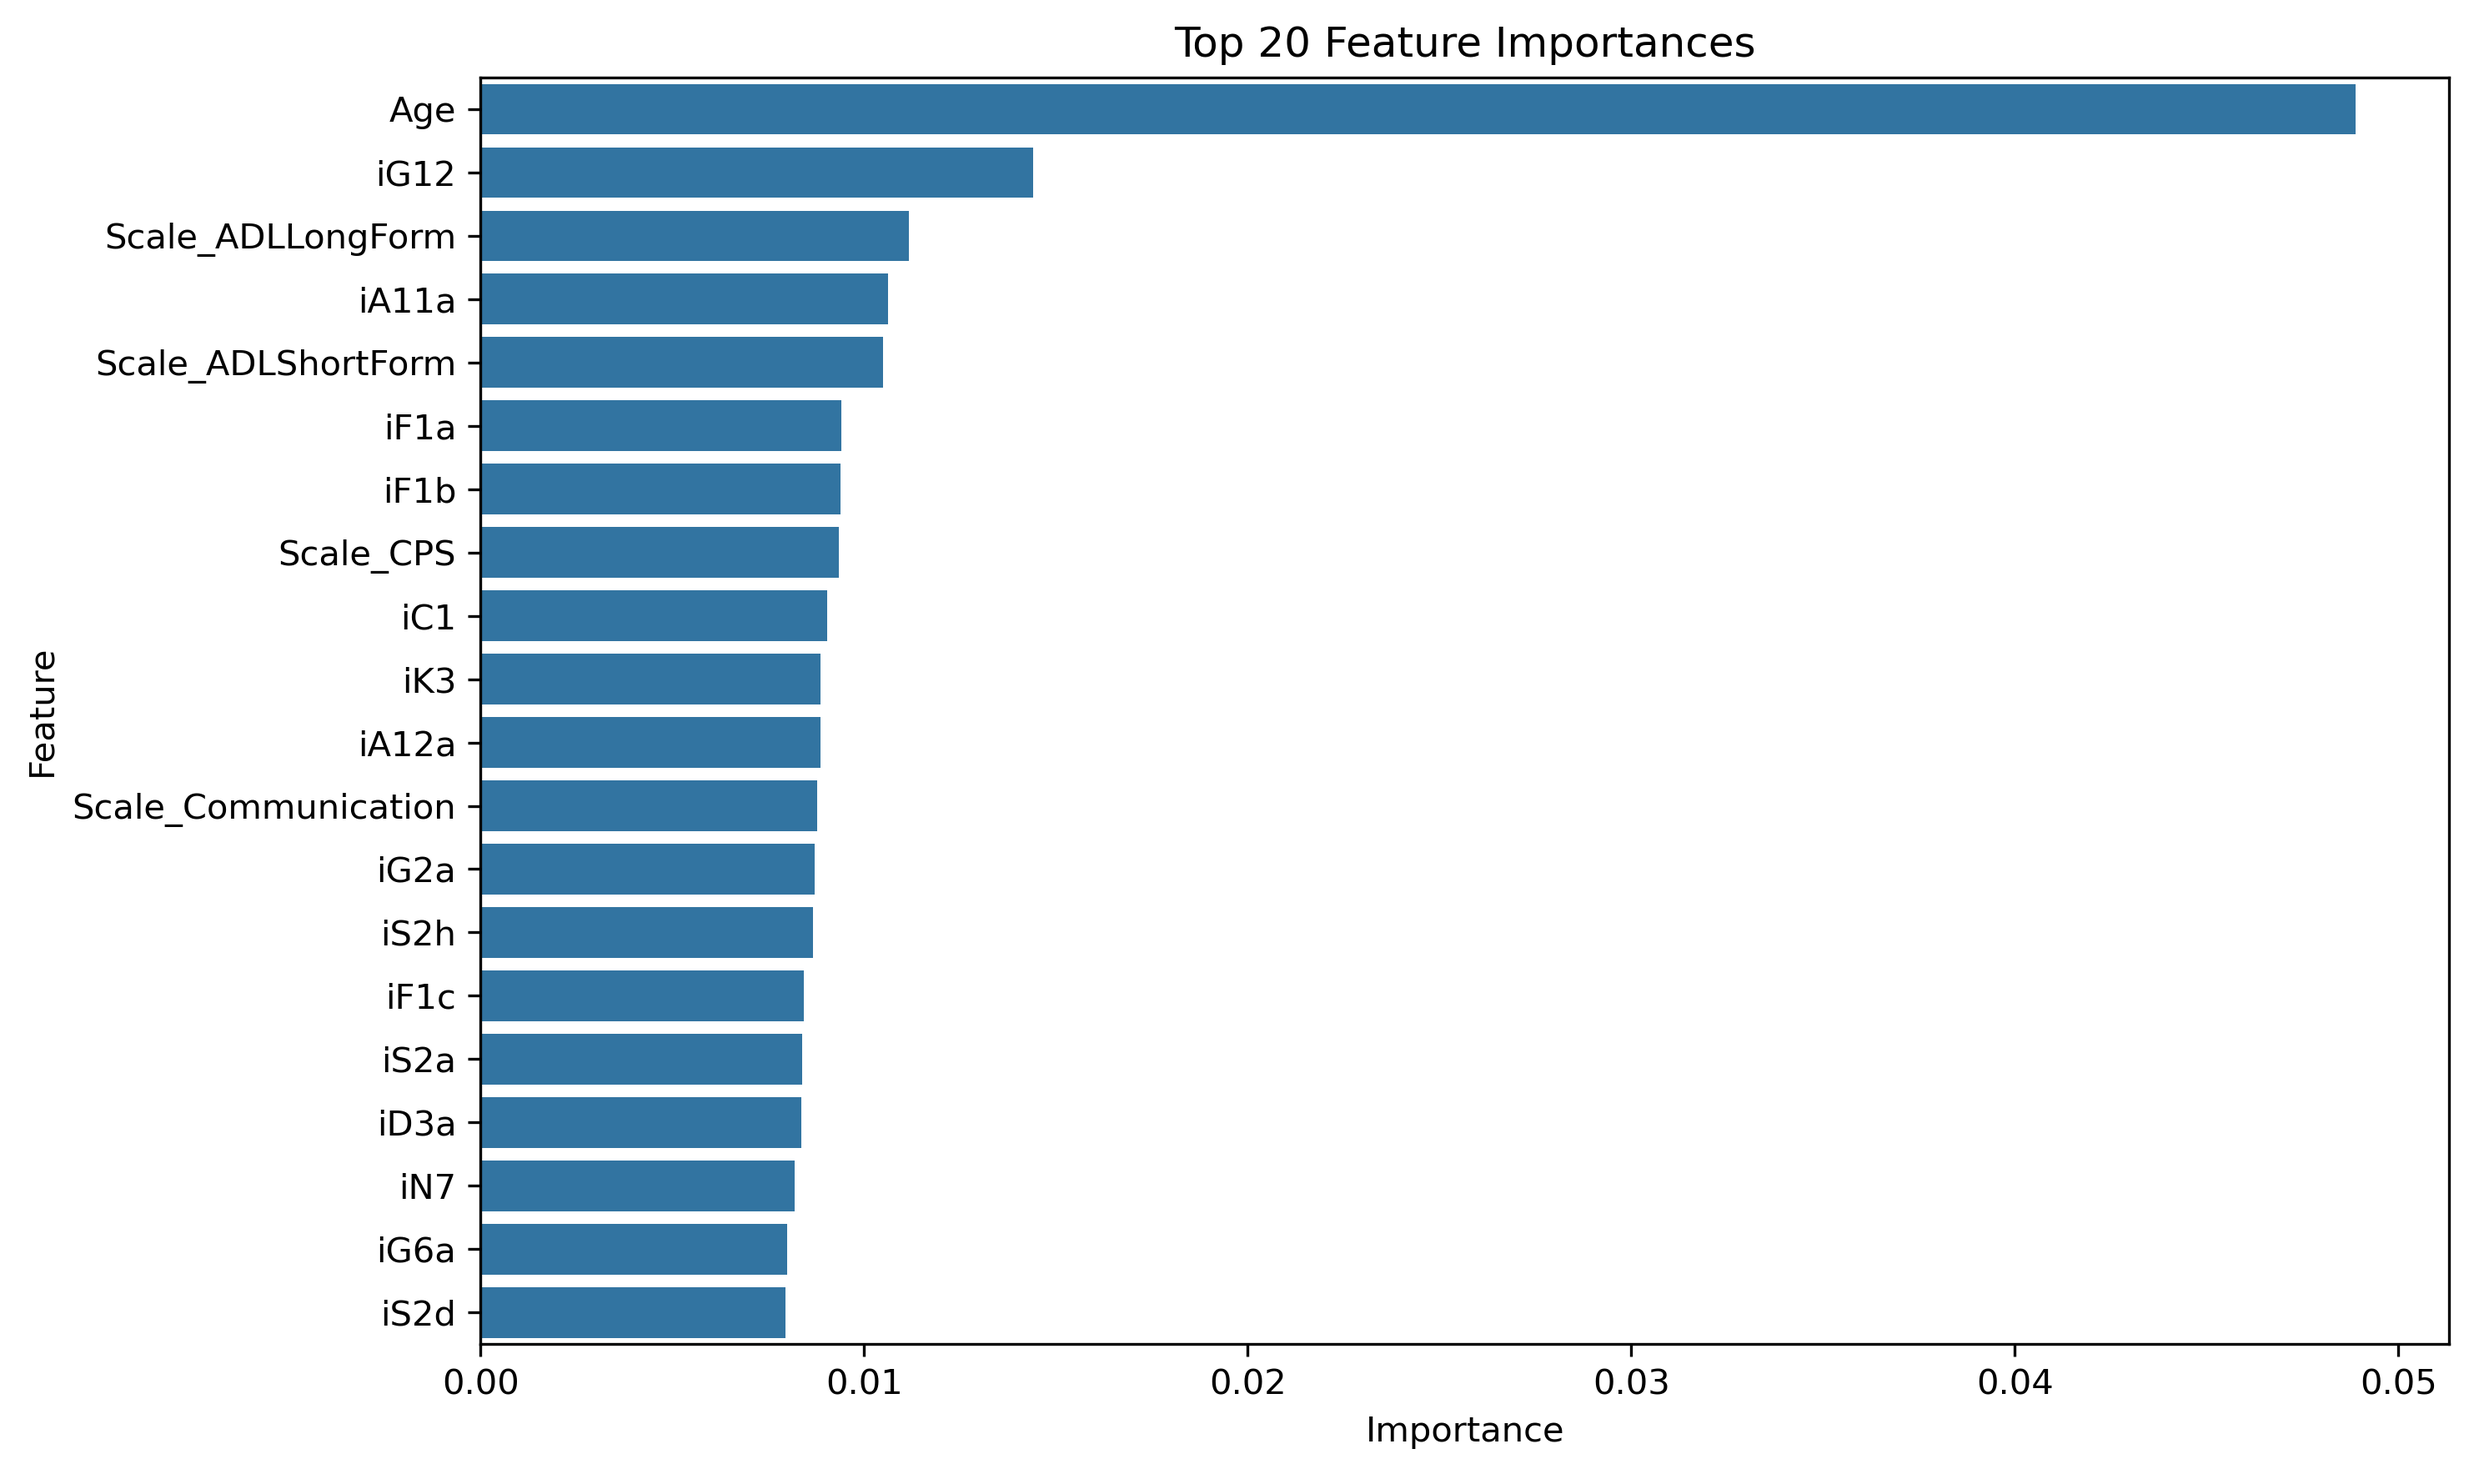
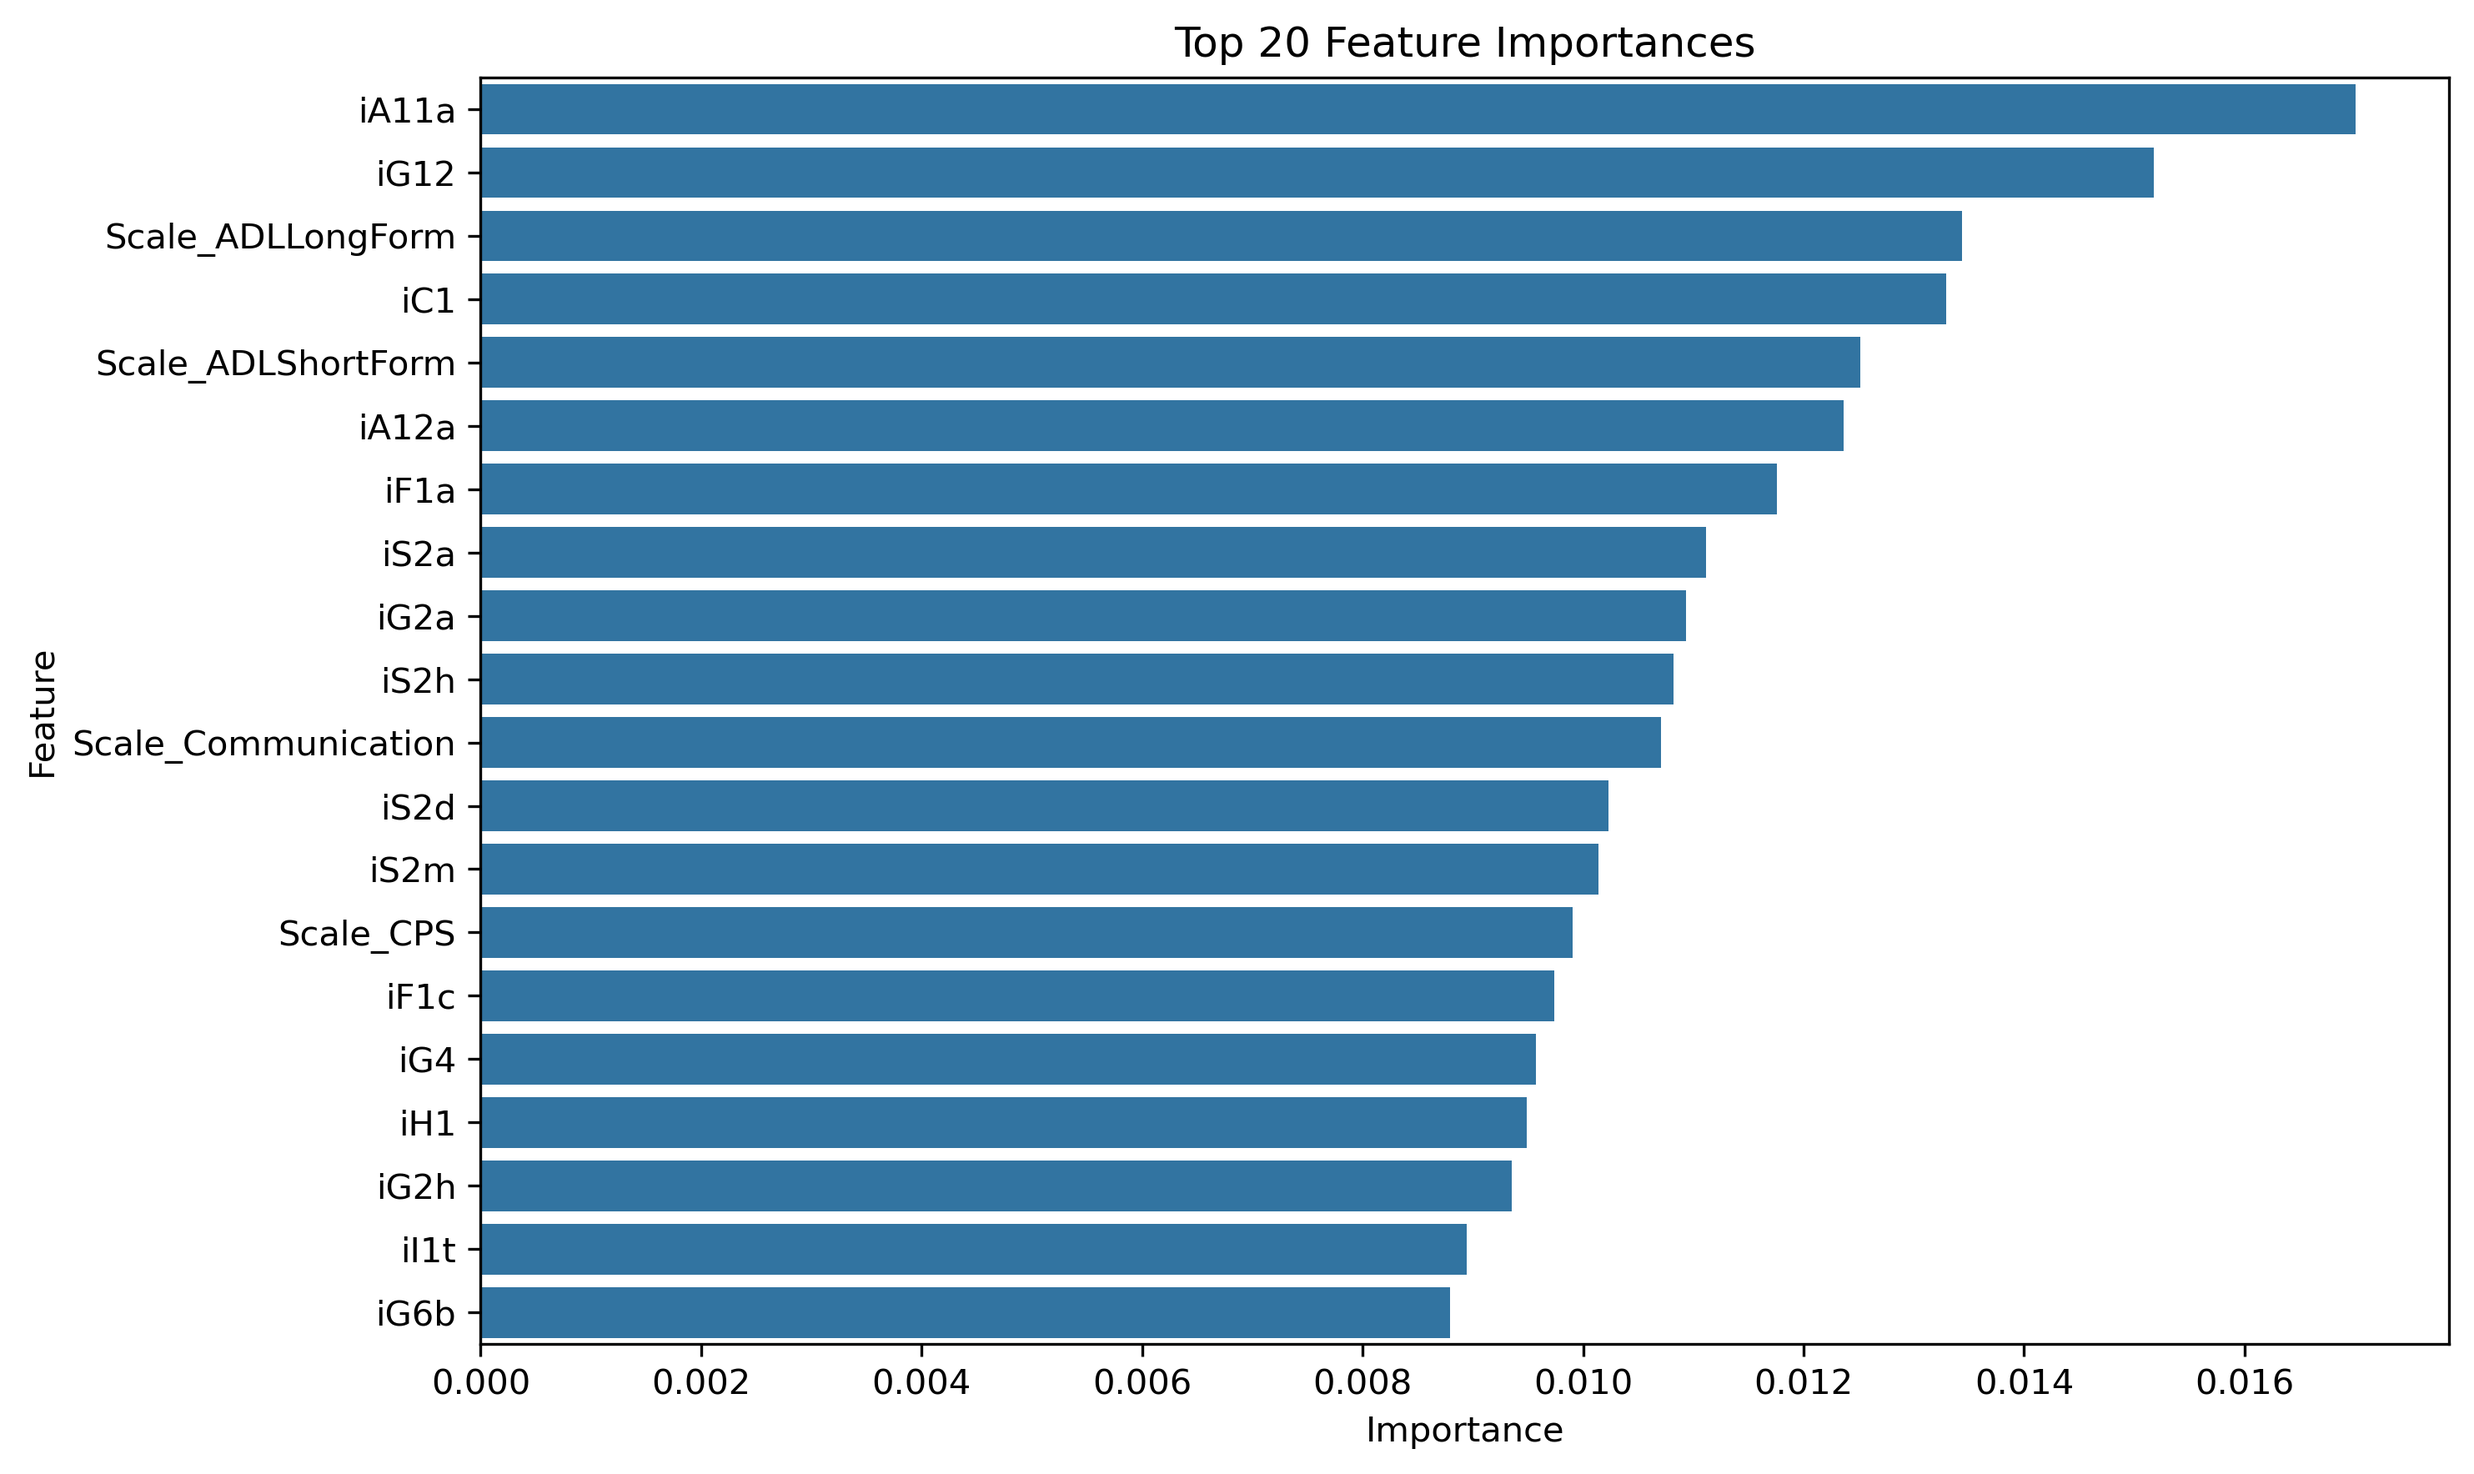
Create the XGboost models

diff --git a/XGboost model/XGboost_CAP_without_Malnutrition_Score.py b/XGboost model/XGboost_CAP_without_Malnutrition_Score.py
@@ -1,0 +1,127 @@
+import pandas as pd
+from sklearn.model_selection import train_test_split
+import xgboost as xgb
+from sklearn.model_selection import GridSearchCV
+import joblib
+import matplotlib.pyplot as plt
+import seaborn as sns
+from sklearn.metrics import classification_report, confusion_matrix
+
+def split_cap_data(df):
+    cols_to_drop = [df.columns[0], df.columns[1], 'CAP_Nutrition', 'Scale_BMI']
+    X = df.drop(columns=cols_to_drop)
+    if 'Malnutrition' in X.columns:
+        X = X.drop(columns=['Malnutrition'])
+    
+    y = df['CAP_Nutrition']
+    
+    X_train, X_test, y_train, y_test = train_test_split(X, y, test_size=0.2, random_state=42, stratify=y, shuffle=True)
+    print(f"X_train shape: {X_train.shape}, y_train shape: {y_train.shape}")
+    print(f"X_test shape: {X_test.shape}, y_test shape: {y_test.shape}")
+    return X_train, X_test, y_train, y_test
+
+def train_xgboost_with_grid_search(X_train, y_train):
+    xgb_model = xgb.XGBClassifier( 
+        eval_metric='logloss',
+        random_state=42
+    )
+    
+    param_grid = {
+        'max_depth': [7, 10],
+        'learning_rate': [0.01, 0.1],
+        'n_estimators': [100, 200],
+        'subsample': [0.6, 0.8],
+        'colsample_bytree': [0.6, 0.8],
+        # 'gamma': [0, 0.1, 0.2],
+        # 'min_child_weight': [1, 3, 5]
+    }
+    
+    grid_search = GridSearchCV(
+        estimator=xgb_model,
+        param_grid=param_grid,
+        cv=5,
+        scoring='f1_weighted',
+        n_jobs=-1,
+        verbose=1
+    )
+    
+    grid_search.fit(X_train, y_train)
+    
+    print("Best parameters found: ", grid_search.best_params_)
+    print("Best cross-validation score: ", grid_search.best_score_)
+    
+    return grid_search.best_estimator_
+
+def train_xgboost_simple(X_train, y_train):
+    xgb_model = xgb.XGBClassifier( 
+        eval_metric='logloss',
+        max_depth=10,          
+        learning_rate=0.01,    
+        n_estimators=200,     
+        subsample=0.8,     
+        colsample_bytree=0.8, 
+        gamma=0.1,            
+        min_child_weight=1,
+        random_state=42
+    )
+    xgb_model.fit(X_train, y_train)
+    
+    return xgb_model
+
+def get_and_print_accuracy(clf, X_test, y_test):
+    y_pred = clf.predict(X_test)
+    accuracy = clf.score(X_test, y_test)
+    print(f"XGBoost Accuracy: {accuracy:.4f}")
+    print("Classification Report:")
+    print(classification_report(y_test, y_pred))
+    print("Confusion Matrix:")
+    print(confusion_matrix(y_test, y_pred))
+    
+    return accuracy
+
+def plot_feature_importance(clf, X_train, top_n=20):
+    importances = clf.feature_importances_
+    feature_names = X_train.columns
+    importance_df = pd.DataFrame({'Feature': feature_names, 'Importance': importances})
+    importance_df = importance_df.sort_values(by='Importance', ascending=False).head(top_n)
+    
+    print(importance_df)
+    
+    plt.figure(figsize=(10, 6))
+    sns.barplot(x='Importance', y='Feature', data=importance_df)
+    plt.title(f'Top {top_n} Feature Importances')
+    plt.xlabel('Importance')
+    plt.ylabel('Feature')
+    plt.tight_layout()
+    
+    plt.savefig("./image/xgboost_cap_feature_importance_score_0_5.png", dpi=300, bbox_inches='tight')
+    plt.show()
+    
+def save_model(clf, X, filename):
+    plt.figure(figsize=(40, 20))
+    xgb.plot_tree(clf, num_trees=0, rankdir='LR', fmap='')
+    plt.tight_layout()
+    plt.savefig(filename)
+    plt.close()
+    
+if __name__ == "__main__":
+    df = pd.read_pickle("./datasets/cap_data.pkl")
+    X_train, X_test, y_train, y_test = split_cap_data(df)
+    
+    # Train XGBoost model with grid search
+    # clf = train_xgboost_simple(X_train, y_train)
+    clf = train_xgboost_with_grid_search(X_train, y_train)
+    
+    # Get and print accuracy
+    accuracy = get_and_print_accuracy(clf, X_test, y_test)
+    
+    # Plot feature importance
+    plot_feature_importance(clf, X_train, top_n=20)
+    
+    # Save the model to a file
+    model_path = "./model/xgboost_cap_model.pkl"
+    joblib.dump(clf, model_path)
+    print(f"Model saved to {model_path}")
+    
+    # Save the decision tree visualization
+    save_model(clf, X_train, "./tree/cap_without_Mal_score_xgboost_tree_model.pdf")

diff --git a/XGboost model/XGboost_mal_with_0-5.py b/XGboost model/XGboost_mal_with_0-5.py
@@ -1,0 +1,98 @@
+import pandas as pd
+from sklearn.model_selection import train_test_split
+import xgboost as xgb
+from sklearn.model_selection import GridSearchCV
+import joblib
+import matplotlib.pyplot as plt
+import seaborn as sns
+from sklearn.metrics import classification_report, confusion_matrix
+
+def split_mal_data(df):
+    cols_to_drop = [df.columns[0], df.columns[1], 'Malnutrition']
+    X = df.drop(columns=cols_to_drop)
+    y = df['Malnutrition']
+    
+    X_train, X_test, y_train, y_test = train_test_split(X, y, test_size=0.2, random_state=42, stratify=y, shuffle=True)
+    print(f"X_train shape: {X_train.shape}, y_train shape: {y_train.shape}")
+    print(f"X_test shape: {X_test.shape}, y_test shape: {y_test.shape}")
+    
+    return X_train, X_test, y_train, y_test
+
+
+def train_xgboost_with_grid_search(X_train, y_train):
+    xgb_model = xgb.XGBClassifier(
+        eval_metric='logloss',
+        random_state=42
+    )
+    
+    param_grid = {
+        'max_depth': [7, 10],
+        'learning_rate': [0.01, 0.1],
+        'n_estimators': [100, 200],
+        'subsample': [0.6, 0.8],
+        'colsample_bytree': [0.6, 0.8],
+    }
+    
+    grid_search = GridSearchCV(
+        estimator=xgb_model,
+        param_grid=param_grid,
+        cv=5,
+        scoring='f1_weighted',
+        n_jobs=-1,
+        verbose=1
+    )
+    
+    grid_search.fit(X_train, y_train)
+    
+    print("Best parameters found: ", grid_search.best_params_)
+    print("Best cross-validation score: ", grid_search.best_score_)
+    
+    return grid_search.best_estimator_
+
+def get_and_print_accuracy(clf, X_test, y_test):
+    y_pred = clf.predict(X_test)
+    accuracy = (y_pred == y_test).mean()
+    print(f"XGBoost Accuracy: {accuracy:.4f}")
+    print("Classification Report:")
+    print(classification_report(y_test, y_pred))
+    print("Confusion Matrix:")
+    print(confusion_matrix(y_test, y_pred))
+    
+    return accuracy
+
+def plot_feature_importance(clf, X_train, top_n=20):
+    feature_importances = clf.feature_importances_
+    features = X_train.columns
+    importance_df = pd.DataFrame({'Feature': features, 'Importance': feature_importances})
+    importance_df = importance_df.sort_values(by='Importance', ascending=False)
+
+    importance_df = importance_df.head(top_n)
+    print(importance_df.head(top_n))
+
+    plt.figure(figsize=(10, 6))
+    sns.barplot(x='Importance', y='Feature', data=importance_df)
+    plt.title(f'Top {top_n} Feature Importances')
+    plt.xlabel('Importance')
+    plt.ylabel('Feature')
+    plt.tight_layout()
+    
+    plt.savefig("./image/xgboost_mal_feature_importance_score_0_5.png", dpi=300, bbox_inches='tight')
+    plt.show()
+
+if __name__ == "__main__":
+    df = pd.read_pickle("./datasets/mal_data.pkl")
+    X_train, X_test, y_train, y_test = split_mal_data(df)
+    
+    # Train the XGBoost model with grid search
+    clf = train_xgboost_with_grid_search(X_train, y_train)
+    
+    # Get and print accuracy
+    accuracy = get_and_print_accuracy(clf, X_test, y_test)
+    
+    # Plot feature importance
+    plot_feature_importance(clf, X_train, top_n=20)
+    
+    # Save the model
+    joblib.dump(clf, "./model/xgboost_malnutrition_model_0_5.pkl")
+    print("Model saved as xgboost_malnutrition_model_0_5.pkl")
+    

diff --git a/cap_model.py b/cap_model.py
@@ -5,9 +5,10 @@ import matplotlib.pyplot as plt
 import seaborn as sns
 from sklearn.metrics import accuracy_score
 from sklearn.metrics import classification_report, confusion_matrix
-import matplotlib.pyplot as plt
 from sklearn.tree import plot_tree
 from sklearn.ensemble import RandomForestClassifier
+from sklearn.ensemble import RandomForestClassifier
+from sklearn.model_selection import GridSearchCV, StratifiedKFold
 
 def split_cap_data(df):
     cols_to_drop = [df.columns[0], df.columns[1], 'CAP_Nutrition', 'Scale_BMI']
@@ -28,9 +29,23 @@ def train_decision_tree(X_train, y_train):
     return clf
 
 def train_random_forest(X_train, y_train):
-    clf = RandomForestClassifier(random_state=42, class_weight='balanced', n_estimators=200, max_depth=30, min_samples_split=10)
-    clf.fit(X_train, y_train)
-    return clf
+    param_grid = {
+        'n_estimators': [100, 200, 300],
+        'max_depth': [10, 20, 30, None],
+        'min_samples_split': [2, 5, 10],
+        'min_samples_leaf': [1, 2, 4],
+        'max_features': ['auto', 'sqrt', 'log2'],
+        'class_weight': ['balanced', None]
+    }
+    clf = RandomForestClassifier(random_state=42)
+    cv = StratifiedKFold(n_splits=5, shuffle=True, random_state=42)
+    
+    grid_search = GridSearchCV(clf, param_grid, cv=cv, scoring='f1_weighted', n_jobs=-1)
+    grid_search.fit(X_train, y_train)
+    
+    print("Best parameters found: ", grid_search.best_params_)
+    print("Best cross-validation score: ", grid_search.best_score_)
+    return grid_search.best_estimator_
 
 def get_and_print_accuracy(clf, X_test, y_test):
     y_pred = clf.predict(X_test)
